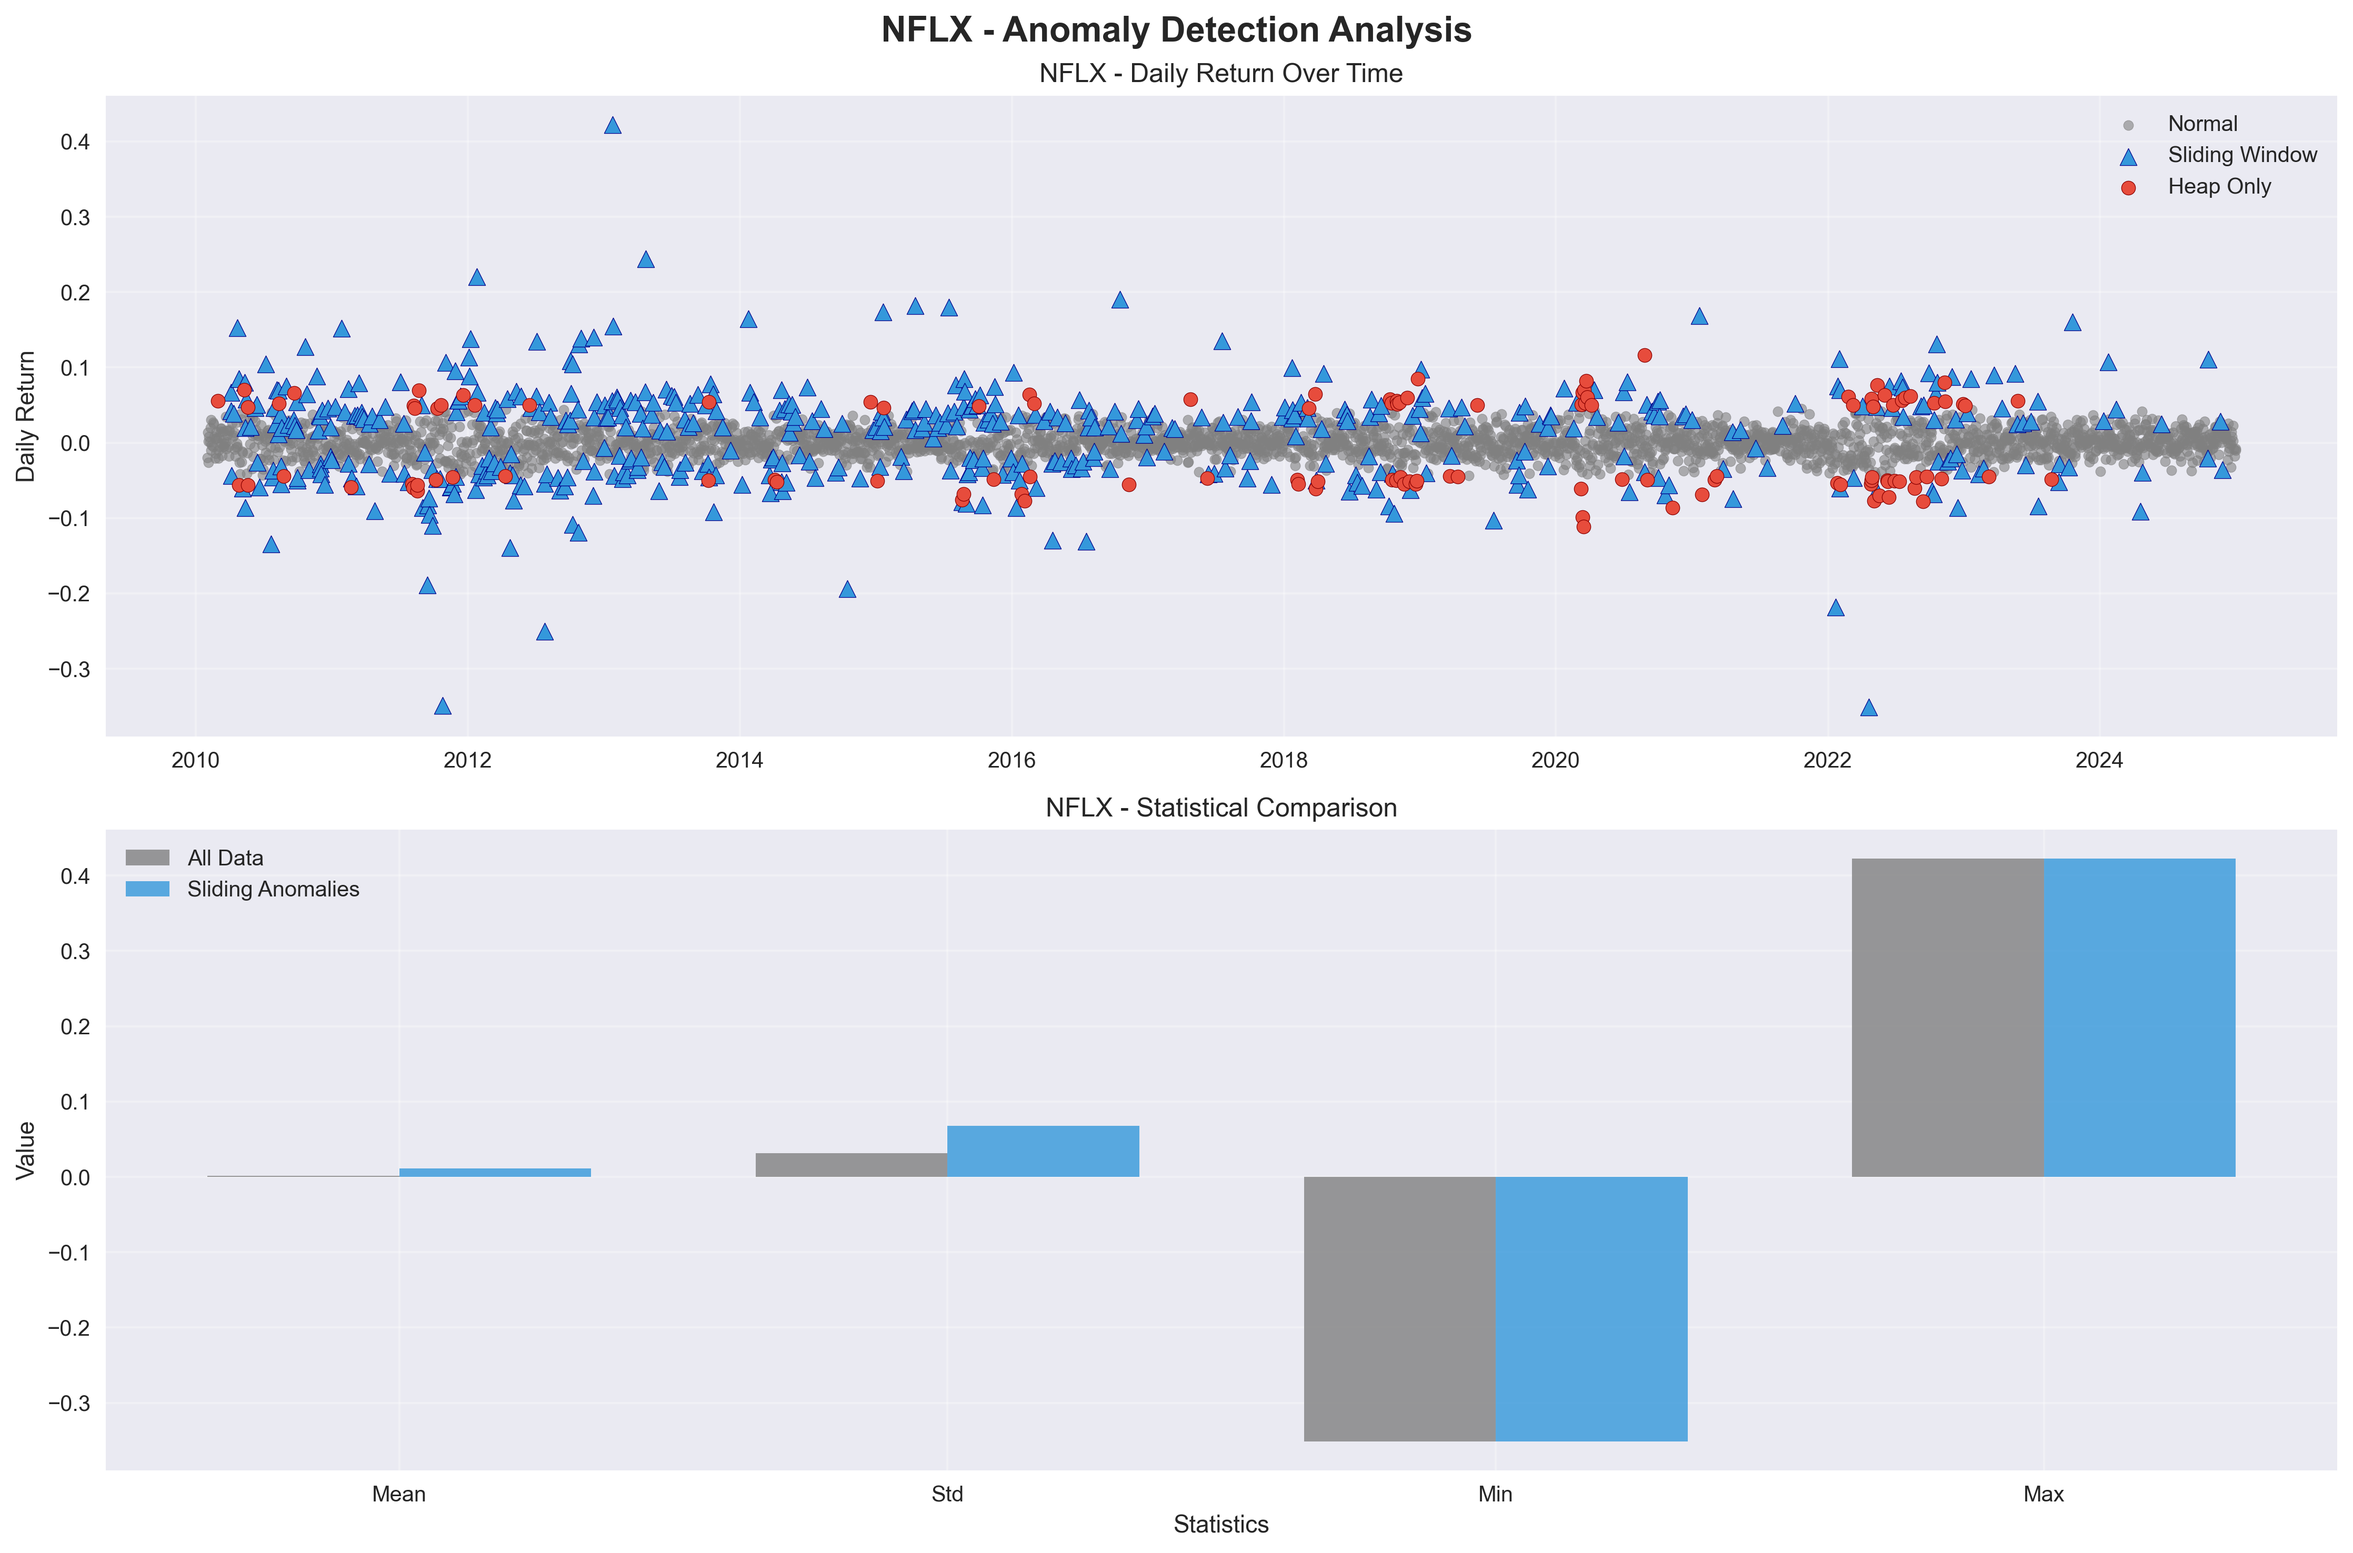
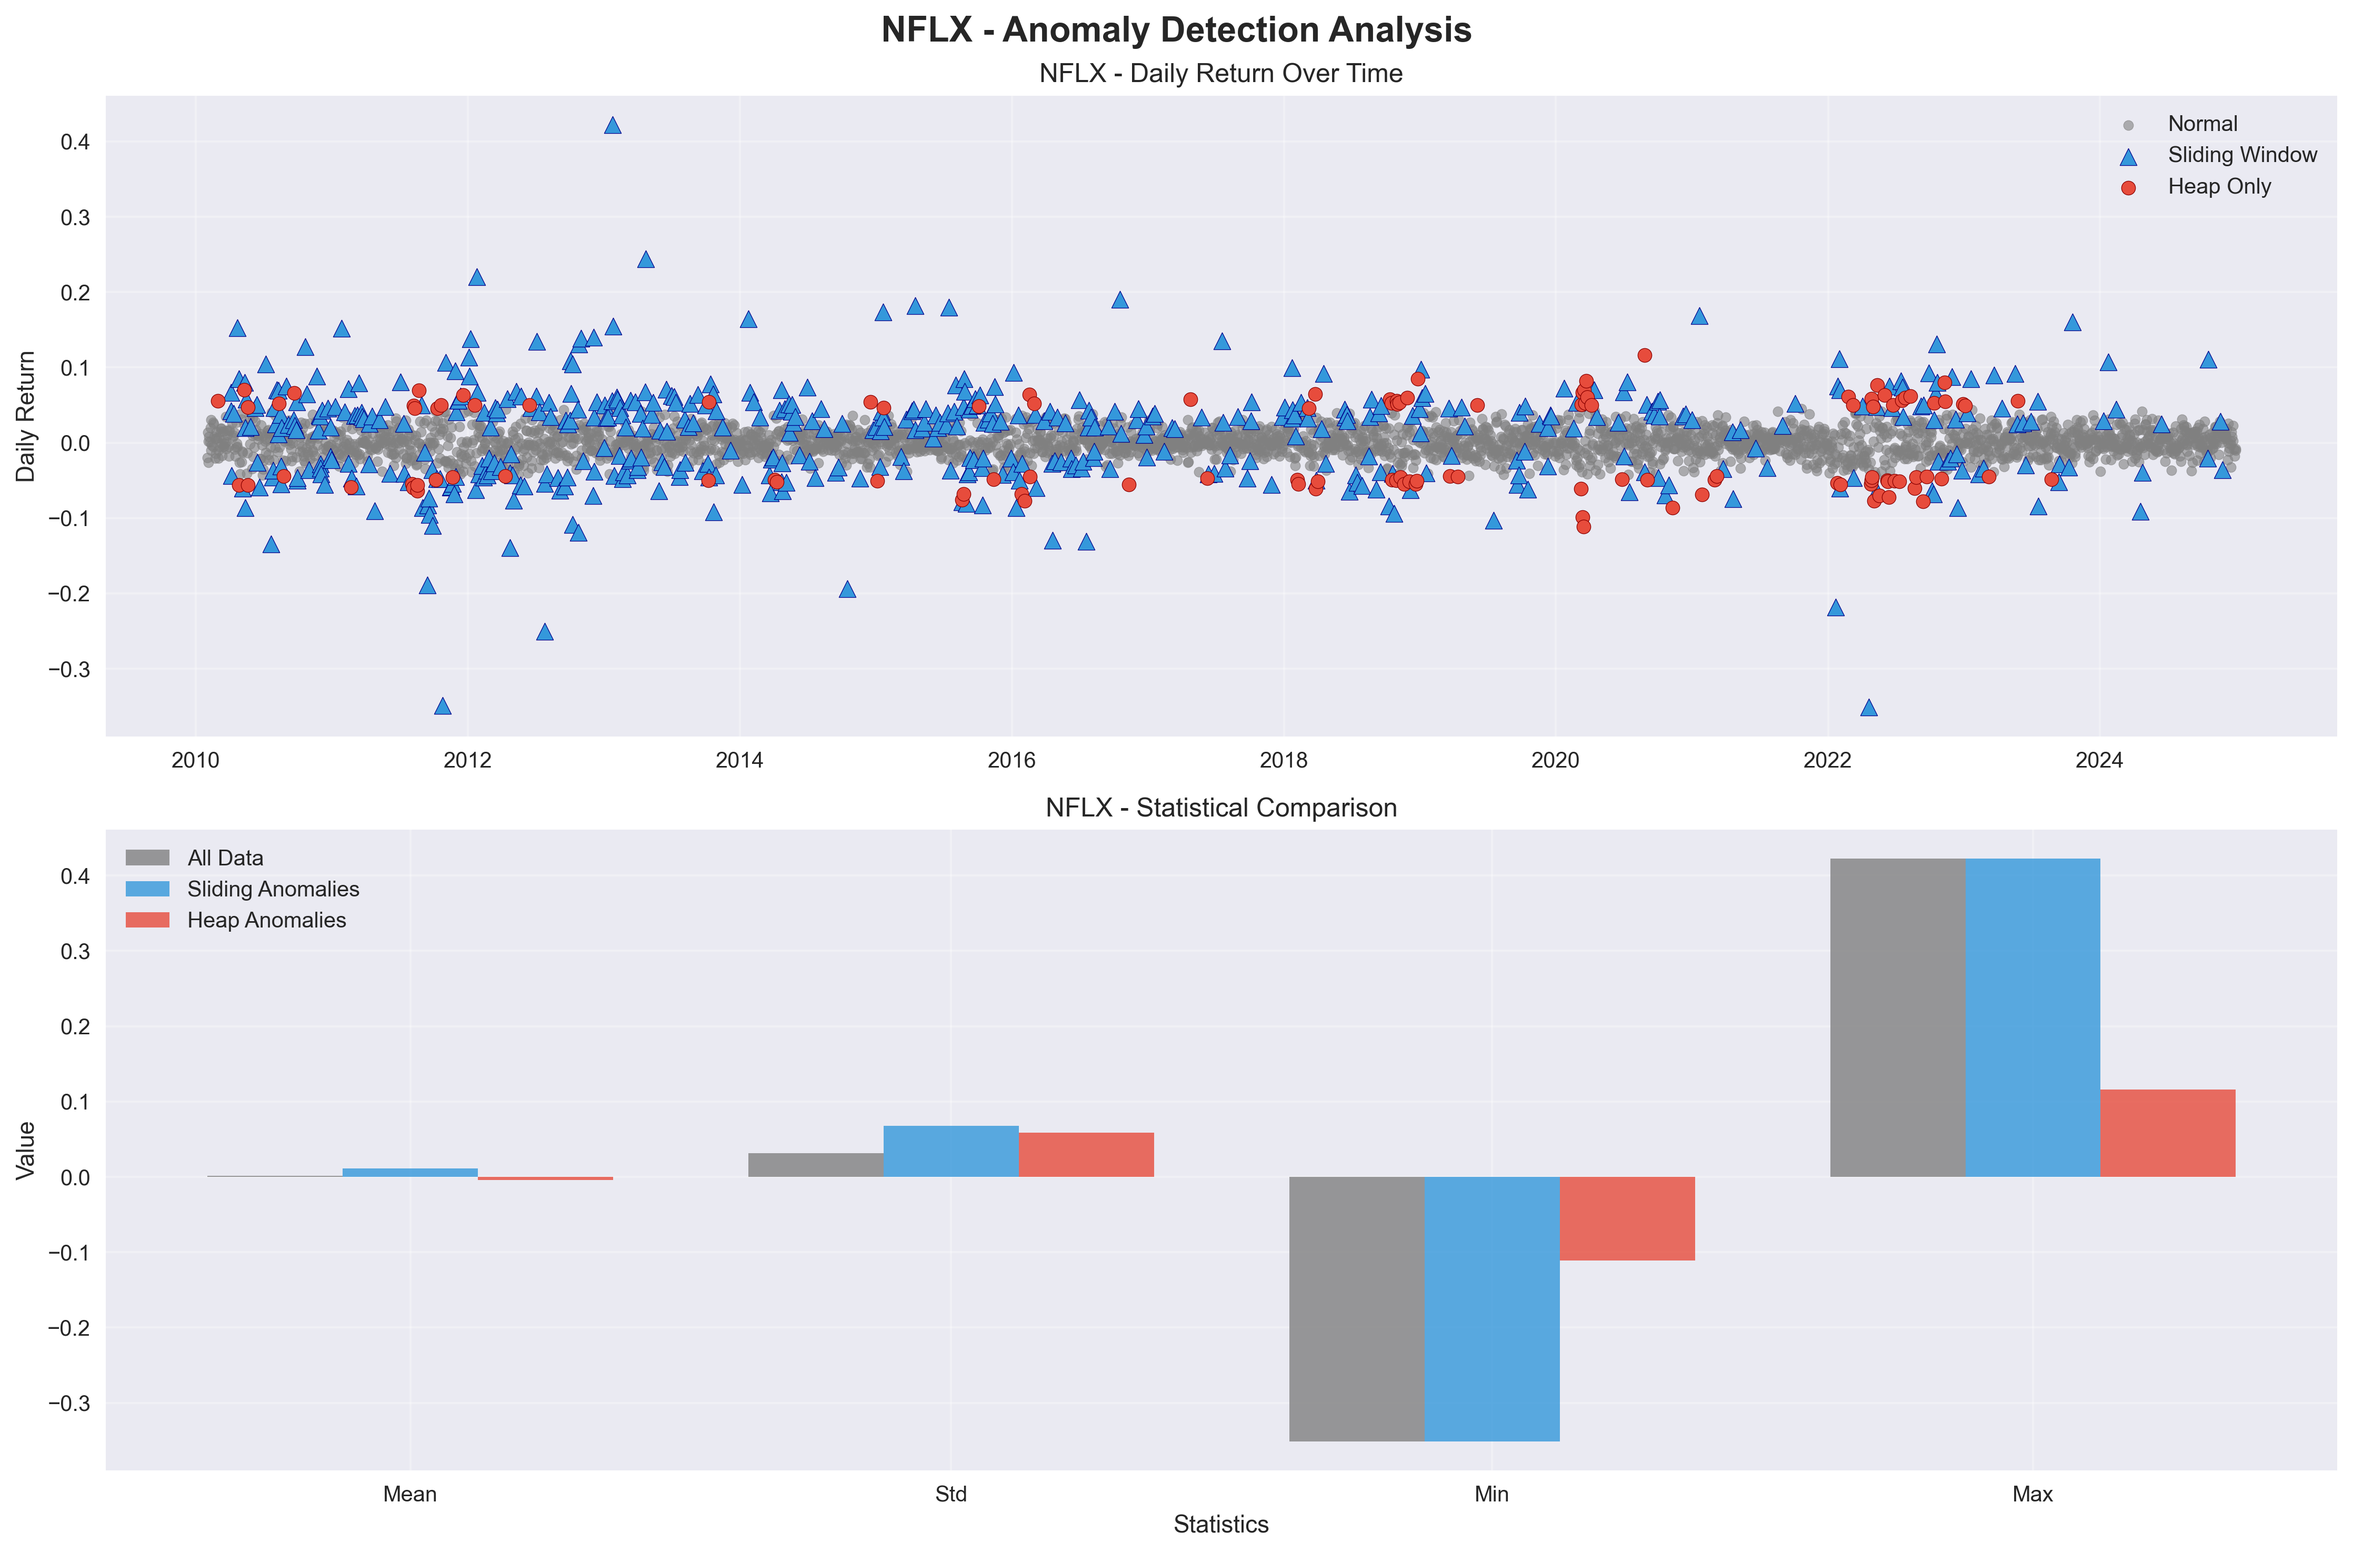
initial plots to do

diff --git a/src/anomaly_comparison.py b/src/anomaly_comparison.py
@@ -265,22 +265,30 @@ class ImprovedAnomalyVisualizer:
     def create_ticker_specific_plots(self, top_n=5):
         """Create detailed plots for specific tickers"""
         print(f"Creating plots for top {top_n} tickers...")
-        
+
         try:
-            if hasattr(self, 'sliding_merged') and len(self.sliding_merged) > 0:
-                # Get top tickers from sliding window (more conservative method)
-                top_tickers = self.sliding_merged['ticker'].value_counts().head(top_n).index
-                
+            if hasattr(self, 'sliding_merged') and hasattr(self, 'heap_merged'):
+                sliding_tickers = self.sliding_merged['ticker'].value_counts()
+                heap_tickers = self.heap_merged['ticker'].value_counts()
+
+                # Combine both ticker counts and keep top N unique tickers
+                combined_tickers = pd.concat([sliding_tickers, heap_tickers]) \
+                                      .groupby(level=0).sum() \
+                                      .sort_values(ascending=False)
+
+                top_tickers = combined_tickers.head(top_n).index
+                print(f"✅ Selected top tickers from both methods: {list(top_tickers)}")
+
                 for ticker in top_tickers:
                     self.create_single_ticker_plot(ticker)
-                
+
                 print(f"✅ Created plots for {len(top_tickers)} tickers")
             else:
-                print("⚠ No sliding window data available for ticker-specific plots")
-                
+                print("⚠ Not enough anomaly data to create ticker-specific plots")
+
         except Exception as e:
             print(f"Error creating ticker-specific plots: {e}")
-    
+
     def create_single_ticker_plot(self, ticker):
         """Create a detailed plot for a single ticker"""
         try:
@@ -311,62 +319,70 @@ class ImprovedAnomalyVisualizer:
                 feature_col = numeric_cols[0] if len(numeric_cols) > 0 else None
             
             if feature_col:
-                # Time series plot
                 x_axis = ticker_data.index if 'date' not in ticker_data.columns else ticker_data['date']
                 
-                # Plot normal points
+                # Masks
                 normal_mask = ~(ticker_data['is_sliding_anomaly'] | ticker_data['is_heap_anomaly'])
-                ax1.scatter(x_axis[normal_mask], ticker_data[normal_mask][feature_col], 
-                           c='gray', alpha=0.6, s=20, label='Normal')
-                
-                # Plot sliding anomalies
                 sliding_mask = ticker_data['is_sliding_anomaly']
+                heap_only_mask = ticker_data['is_heap_anomaly'] & ~ticker_data['is_sliding_anomaly']
+                
+                # Time series scatter plot
+                ax1.scatter(x_axis[normal_mask], ticker_data[normal_mask][feature_col], 
+                            c='gray', alpha=0.6, s=20, label='Normal')
                 if sliding_mask.any():
                     ax1.scatter(x_axis[sliding_mask], ticker_data[sliding_mask][feature_col], 
-                               c='#3498db', s=60, label='Sliding Window', marker='^', edgecolors='darkblue')
-                
-                # Plot heap anomalies (only those not caught by sliding)
-                heap_only_mask = ticker_data['is_heap_anomaly'] & ~ticker_data['is_sliding_anomaly']
+                                c='#3498db', s=60, label='Sliding Window', marker='^', edgecolors='darkblue')
                 if heap_only_mask.any():
                     ax1.scatter(x_axis[heap_only_mask], ticker_data[heap_only_mask][feature_col], 
-                               c='#e74c3c', s=40, label='Heap Only', marker='o', edgecolors='darkred')
+                                c='#e74c3c', s=40, label='Heap Only', marker='o', edgecolors='darkred')
                 
                 ax1.set_title(f'{ticker} - {feature_col.replace("_", " ").title()} Over Time')
                 ax1.set_ylabel(feature_col.replace('_', ' ').title())
                 ax1.legend()
                 ax1.grid(True, alpha=0.3)
+
                 
-                # Statistics comparison
-                if sliding_mask.any():
+                if sliding_mask.any() or heap_only_mask.any():
                     categories = ['Mean', 'Std', 'Min', 'Max']
-                    all_data_stats = [ticker_data[feature_col].mean(), ticker_data[feature_col].std(), 
-                                     ticker_data[feature_col].min(), ticker_data[feature_col].max()]
-                    sliding_stats = [ticker_data[sliding_mask][feature_col].mean(), 
-                                   ticker_data[sliding_mask][feature_col].std(),
-                                   ticker_data[sliding_mask][feature_col].min(), 
-                                   ticker_data[sliding_mask][feature_col].max()]
-                    
                     x = np.arange(len(categories))
-                    width = 0.35
-                    
-                    ax2.bar(x - width/2, all_data_stats, width, label='All Data', alpha=0.8, color='gray')
-                    ax2.bar(x + width/2, sliding_stats, width, label='Sliding Anomalies', alpha=0.8, color='#3498db')
-                    
+                    width = 0.25
+                    offset = 0
+
+                    all_data_stats = [ticker_data[feature_col].mean(), ticker_data[feature_col].std(),
+                                      ticker_data[feature_col].min(), ticker_data[feature_col].max()]
+                    ax2.bar(x + offset, all_data_stats, width, label='All Data', alpha=0.8, color='gray')
+                    offset += width
+
+                    if sliding_mask.any():
+                        sliding_stats = [ticker_data[sliding_mask][feature_col].mean(), 
+                                         ticker_data[sliding_mask][feature_col].std(),
+                                         ticker_data[sliding_mask][feature_col].min(), 
+                                         ticker_data[sliding_mask][feature_col].max()]
+                        ax2.bar(x + offset, sliding_stats, width, label='Sliding Anomalies', alpha=0.8, color='#3498db')
+                        offset += width
+
+                    if heap_only_mask.any():
+                        heap_stats = [ticker_data[heap_only_mask][feature_col].mean(), 
+                                      ticker_data[heap_only_mask][feature_col].std(),
+                                      ticker_data[heap_only_mask][feature_col].min(), 
+                                      ticker_data[heap_only_mask][feature_col].max()]
+                        ax2.bar(x + offset, heap_stats, width, label='Heap Anomalies', alpha=0.8, color='#e74c3c')
+
                     ax2.set_xlabel('Statistics')
                     ax2.set_ylabel('Value')
                     ax2.set_title(f'{ticker} - Statistical Comparison')
-                    ax2.set_xticks(x)
+                    ax2.set_xticks(x + width)
                     ax2.set_xticklabels(categories)
                     ax2.legend()
                     ax2.grid(True, alpha=0.3)
                 else:
-                    ax2.text(0.5, 0.5, 'No anomalies found for this ticker', 
-                            ha='center', va='center', transform=ax2.transAxes)
-            
+                    ax2.text(0.5, 0.5, 'No anomalies found for this ticker',
+                             ha='center', va='center', transform=ax2.transAxes)
+
             plt.tight_layout()
             plt.savefig(self.plots_dir / f'{ticker}_detailed_analysis.png', dpi=300, bbox_inches='tight')
             plt.close()
-            
+
         except Exception as e:
             print(f"Error creating plot for ticker {ticker}: {e}")
     
@@ -424,7 +440,6 @@ RECOMMENDATIONS:
 - {'Both methods show good agreement' if overlap_rate > 2 else 'Consider investigating method differences'}
 """
 
-                # ✅ FIXED INDENTATION:
                 with open(self.plots_dir / "improved_anomaly_summary.txt", "w", encoding="utf-8") as f:
                     f.write(report)
 

diff --git a/src/main.cpp b/src/main.cpp
@@ -177,8 +177,6 @@ int main() {
     
     std::cout << "===================================================" << std::endl;
     
-    std::cout << std::endl << "🚀 Run 'python improved_anomaly_visualization.py' for enhanced visualizations!" << std::endl;
-    
     return 0;
 }
 
